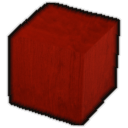
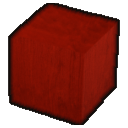
mining bag now only displays its content when clicked

diff --git a/app/src/material/MiningBag.tsx b/app/src/material/MiningBag.tsx
@@ -1,7 +1,13 @@
 /** @jsxImportSource @emotion/react */
 import { css } from '@emotion/react'
-import { HTMLAttributes } from 'react'
+import { Picture } from '@gamepark/react-components'
+import { HTMLAttributes, useState } from 'react'
+import { miningBagWidth, miningBagHeight, miningBagAreaWidth } from '../util/Metrics'
+import { getSize } from '../util/Styles'
+import Dynamite from './Dynamite'
+import GoldCube from './GoldCube'
 import Images from './Images'
+import StoneCube from './StoneCube'
 
 
 type Props = {
@@ -11,41 +17,48 @@ type Props = {
 } & HTMLAttributes<HTMLDivElement>
 
 
-export default function MiningBag(props: Props) {
+export default function MiningBag({ gold, stone, dynamite, ...props }: Props) {
+  const [showContent, setShowContent] = useState<boolean>(false)
+
   return (
-    <div css={miningBagStyle} {...props} >
-      <div css={goldAmountStyle}>{props.gold}</div>
-      <div css={stoneAmountStyle}>{props.stone}</div>
-      <div css={dynamiteAmountStyle}>{props.dynamite}</div>
+    <div onClick={() => setShowContent(!showContent)} css={[mainStyle, getSize(miningBagAreaWidth, miningBagHeight)]} {...props} >
+      <Picture src={Images.miningBag} onClick={() => setShowContent(!showContent)} css={[getSize(miningBagWidth, miningBagHeight), miningBagStyle]} />
+      <div css={getPanelStyle(showContent)} >
+        <div css={itemStyle}><GoldCube css={[marginStyle, getSize(1.5, 1.5)]} />{gold}</div>
+        <div css={itemStyle}><StoneCube css={[marginStyle, getSize(1.5, 1.5)]}/>{stone}</div>
+        <div css={itemStyle}><Dynamite css={[marginStyle, getSize(1.5, 1.5)]}/>{dynamite}</div>
+      </div>
     </div>
   )
 }
 
+const mainStyle = css`
+  display: flex;
+`
 
 const miningBagStyle = css`
-  background-image: url(${Images.miningBag});
-  background-color: #00000000;
-  background-size: cover;
-  color: white;
+  filter: drop-shadow(0 0 0.4em white);
 `
 
-const goldAmountStyle = css`
-  position: absolute;
-  left: 55%;
-  top: 22%;
-  font-size: 1rem;
+function getPanelStyle(isOpen: boolean) {
+  return css`
+  transition: transform 1s;
+  transform: scaleX(${isOpen ? 1 : 0});
+  transform-origin: left;
+  display: flex;
+  flex-direction: column;
+`
+}
+
+const itemStyle = css`
+  display: flex;
+  flex-direction: row;
+  justify-content: 
+  align-items: center;
+  font-size: 1.5rem;
 `
 
-const stoneAmountStyle = css`
-  position: absolute;
-  left: 60%;
-  top: 47%;
-  font-size: 1rem;
-`
-
-const dynamiteAmountStyle = css`
-  position: absolute;
-  left: 65%;
-  top: 72%;
-  font-size: 1rem;
+const marginStyle = css`
+  margin-left: 0.5em;
+  margin-right: 0.5em;
 `

diff --git a/app/src/GameDisplay.tsx b/app/src/GameDisplay.tsx
@@ -23,8 +23,8 @@ import MiningBag from './material/MiningBag'
 import PlayerInfo, { getMarqueePositionInPlayerInfo } from './material/PlayerInfo'
 import PlayerSelecter from './material/PlayerSelecter'
 import StoneCube from './material/StoneCube'
-import { letterBoxHeight, letterBoxWidth, marqueesPosition, miningBagHeight, miningBagLeft, miningBagTop, miningBagWidth, playerInfoHeight, playerInfoPositions, playerInfoWidth } from './util/Metrics'
-import { getTranslationAnimationStyle } from './util/Styles'
+import { letterBoxHeight, letterBoxWidth, marqueesPosition, miningBagLeft, miningBagTop, playerInfoHeight, playerInfoPositions, playerInfoWidth } from './util/Metrics'
+import { getPosition, getTranslationAnimationStyle } from './util/Styles'
 import YesNoSelecter from './util/YesNoSelecter'
 
 type Props = {
@@ -72,7 +72,7 @@ export default function GameDisplay({ game }: Props) {
 
   return (
     <Letterbox id="letterbox" css={letterBoxStyle} width={letterBoxWidth} height={letterBoxHeight} top={0}>
-      <MiningBag gold={game.goldCubesInMiningBag} stone={game.stoneCubesInMiningBag} dynamite={game.dynamitesInMiningBag} css={miningBagMetrics} />
+      <MiningBag gold={game.goldCubesInMiningBag} stone={game.stoneCubesInMiningBag} dynamite={game.dynamitesInMiningBag} css={getPosition([miningBagLeft, miningBagTop])} />
       <>
         {game.players.map((playerState, index) =>
           <PlayerInfo css={getPlayerInfoMetrics(index)} playerState={playerState} gameState={game} key={index} buildingMarqueeAnimation={buildingMarqueeOwner === playerState.color} />
@@ -124,14 +124,6 @@ const fadeIn = keyframes`
 
 const letterBoxStyle = css`
   animation: ${fadeIn} 3s ease-in forwards;
-`
-
-const miningBagMetrics = css`
-position: absolute;
-left: ${miningBagLeft}em;
-top: ${miningBagTop}em;
-width: ${miningBagWidth}em;
-height: ${miningBagHeight}em;
 `
 
 const getPlayerInfoMetrics = (index: number) => css`

diff --git a/app/src/material/PlayerInfo.tsx b/app/src/material/PlayerInfo.tsx
@@ -16,6 +16,7 @@ import { goldBarRatio } from '../util/Metrics'
 import { getPlayerName } from '../../../rules/src/AFistfulOfMeeplesOptions'
 import Phase from '../../../rules/src/Phase'
 import Marquee from './Marquee'
+import { getSize } from '../util/Styles'
 
 
 type Props = {
@@ -56,11 +57,11 @@ export default function PlayerInfo({ playerState, gameState, buildingMarqueeAnim
       </div>
 
       <div css={getItemStyle(4, 60, 90)}>
-        <StoneCube css={getStoneCubeStyle} />
+        <StoneCube css={getSize(1.3, 1.3)} />
         {playerState.stones}
-        <GoldCube css={getGoldCubeStyle} />
+        <GoldCube css={getSize(1.5, 1.5)} />
         {playerState.goldPieces}
-        <GoldBar css={getGoldBarStyle} />
+        <GoldBar css={goldBarStyle} />
         {playerState.goldBars}
       </div>
     </div>
@@ -127,17 +128,9 @@ const getItemStyle = (left: number, top: number, width: number) => css`
   align-items: center;
 `
 
-const getStoneCubeStyle = css`
-  width: 1.3em;
-  height: 1.3em;
-`
 
-const getGoldCubeStyle = css`
-  width: 1.5em;
-  height: 1.5em;
-`
 
-const getGoldBarStyle = css`
+const goldBarStyle = css`
   width: 1.5em;
   height: ${1.5 / goldBarRatio}em;
   transform: rotate(270deg);

diff --git a/app/src/material/Dynamite.tsx b/app/src/material/Dynamite.tsx
@@ -2,6 +2,7 @@
 import { Picture } from '@gamepark/react-components'
 import { HTMLAttributes } from 'react'
 import { useTranslation } from 'react-i18next'
+import { lightOutlineStyle } from '../util/Styles'
 import Images from './Images'
 
 
@@ -10,7 +11,7 @@ export default function Dynamite(props: HTMLAttributes<HTMLImageElement>) {
   const { t } = useTranslation()
 
   return (
-    <Picture {...props} src={Images.dynamite} alt={t('Dynamite')} />
+    <Picture {...props} css={lightOutlineStyle} src={Images.dynamite} alt={t('Dynamite')} />
   )
 }
 

diff --git a/app/src/material/StoneCube.tsx b/app/src/material/StoneCube.tsx
@@ -2,6 +2,7 @@
 import { Picture } from '@gamepark/react-components'
 import { HTMLAttributes } from 'react'
 import { useTranslation } from 'react-i18next'
+import { darkOutlineStyle } from '../util/Styles'
 import Images from './Images'
 
 
@@ -9,6 +10,6 @@ export default function StoneCube(props: HTMLAttributes<HTMLDivElement>) {
   const { t } = useTranslation()
 
   return (
-    <Picture {...props} src={Images.stoneCube} alt={t('StoneCube')}  />
+    <Picture {...props} css={darkOutlineStyle} src={Images.stoneCube} alt={t('StoneCube')} />
   )
 }

diff --git a/app/src/material/GoldCube.tsx b/app/src/material/GoldCube.tsx
@@ -2,12 +2,13 @@
 import { Picture } from '@gamepark/react-components'
 import { HTMLAttributes } from 'react'
 import { useTranslation } from 'react-i18next'
+import { darkOutlineStyle } from '../util/Styles'
 import Images from './Images'
 
 export default function GoldCube(props: HTMLAttributes<HTMLDivElement>) {
   const { t } = useTranslation()
 
   return (
-    <Picture {...props} src = { Images.goldCube } alt={t('GoldCube')} />
+    <Picture {...props} css={darkOutlineStyle} src={Images.goldCube} alt={t('GoldCube')} />
   )
 }

diff --git a/app/src/material/Images.ts b/app/src/material/Images.ts
@@ -1,7 +1,7 @@
 //import { isSafari } from 'react-device-detect'
 import { isSafari } from 'react-device-detect'
 import board from '../images/Board.jpg'
-import miningBag from '../images/MiningBagWithCubes.png'
+import miningBag from '../images/MiningBag.png'
 import goldBar from '../images/GoldBar.png'
 import goldCube from '../images/GoldCube.png'
 import stoneCube from '../images/StoneCube.png'

diff --git a/app/src/util/Styles.ts b/app/src/util/Styles.ts
@@ -76,3 +76,10 @@ export const selecterStyle = css`
   &:hover { background-color: #29db0680; }
 `
 
+export const darkOutlineStyle = css`
+  filter: drop-shadow(0 0 0.02em black) drop-shadow(0 0 0.02em black);
+`
+
+export const lightOutlineStyle = css`
+  filter: drop-shadow(0 0 0.02em white) drop-shadow(0 0 0.02em white);
+`

diff --git a/app/src/util/Metrics.ts b/app/src/util/Metrics.ts
@@ -13,6 +13,7 @@ export const boardLeft = 0
 export const boardTop = 7
 
 export const miningBagRatio = 784 / 764
+export const miningBagAreaWidth = 25
 export const miningBagWidth = 15
 export const miningBagHeight = miningBagWidth / miningBagRatio
 export const miningBagLeft = boardWidth + 1
